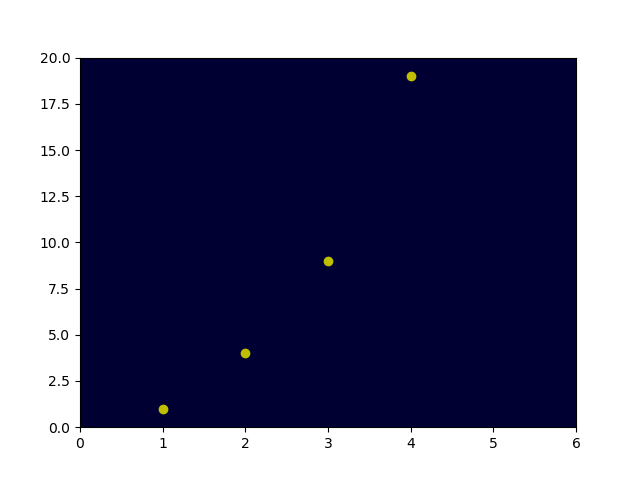
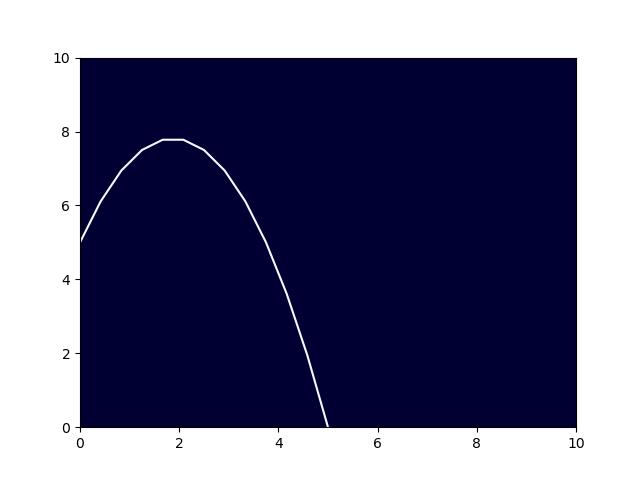
equation is graphing

diff --git a/Flask/trebuchetFlask/app.py b/Flask/trebuchetFlask/app.py
@@ -5,7 +5,7 @@ import RPi.GPIO as GPIO
 
 fnt = ImageFont.truetype('arial.ttf', 15)
 
-
+import numpy as np
 
 import random
 import time
@@ -76,25 +76,40 @@ def index():
 
 				# inFreefall()
 				print("In Freefall")
-				#take readings
+
+
+
+				#take initial altitude
+
+
+				#find max altitude
+				#take x acceleration
+				
+
 				print("Freefall done")
 
 				# landed()
 				print("Landed Running")
 
+				A = -4/5
+				B = 3
+				C = 5
 
-				colors = ['ro', 'mo', 'yo']
+
+				x = np.linspace(0,10,25)
+				y = (A * x**2) + (B*x) + C
+
 				ax=plt.axes()
 				ax.set_facecolor("#000033")
-				plt.plot([1,2,3,4],[1,4,9,19], random.choice(colors))
-				plt.axis([0,6,0,20])
+				plt.plot(x,y, c = "GhostWhite")
+				plt.axis([0,10,0,10])
 				plt.savefig("static/images/refreshTestImage.png")
 				plt.show()
 
-				image = Image.new(mode="RGB", size = (300,300), color = (73,109,137))
+				image = Image.new(mode="RGB", size = (300,225), color = (0,0,51))
 				draw = ImageDraw.Draw(image)
-				text = "Lukas"
-				draw.text((10,10), text, font=fnt, fill=(255,255,0))
+				text = str("Equation = \n Distance = \n Height = ")
+				draw.text((10,10), text, font=fnt, fill=(255,255,255))
 				image.save("static/images/dataImage.png")
 
 				print("Landed Done")
